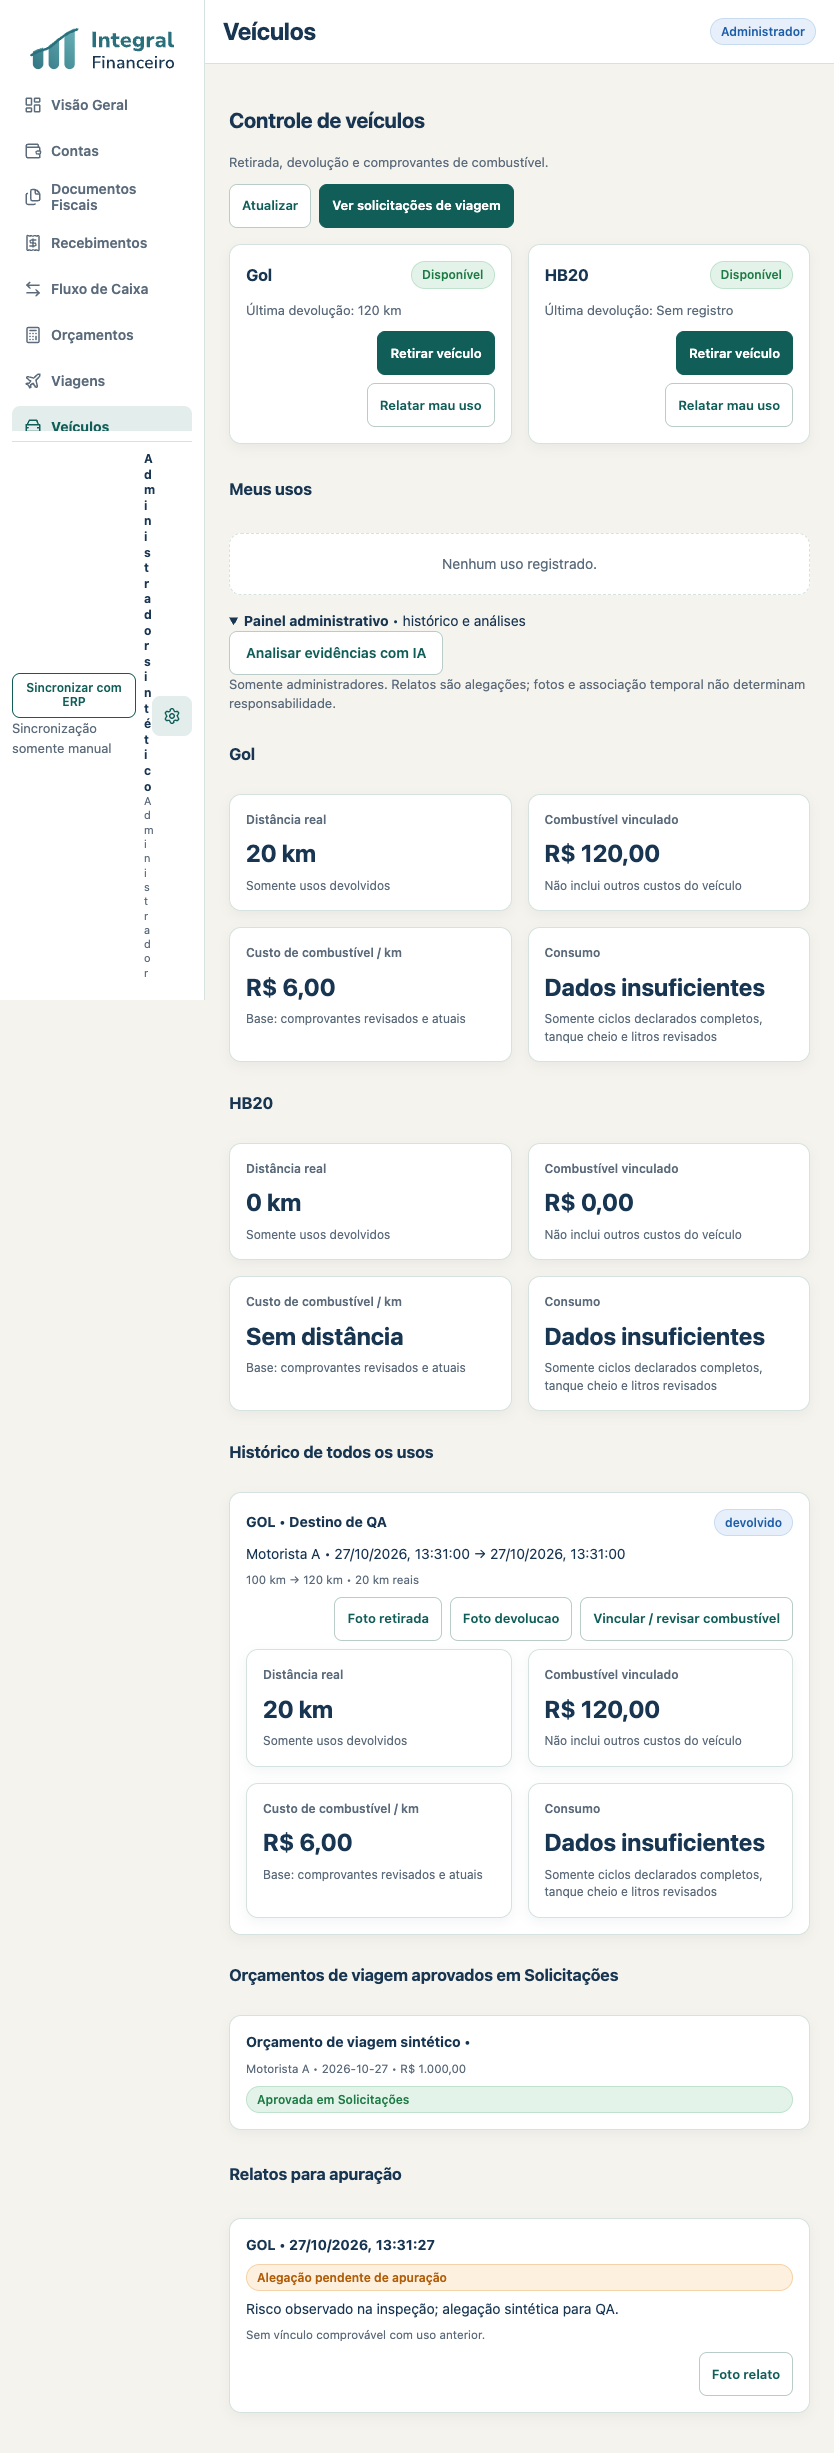
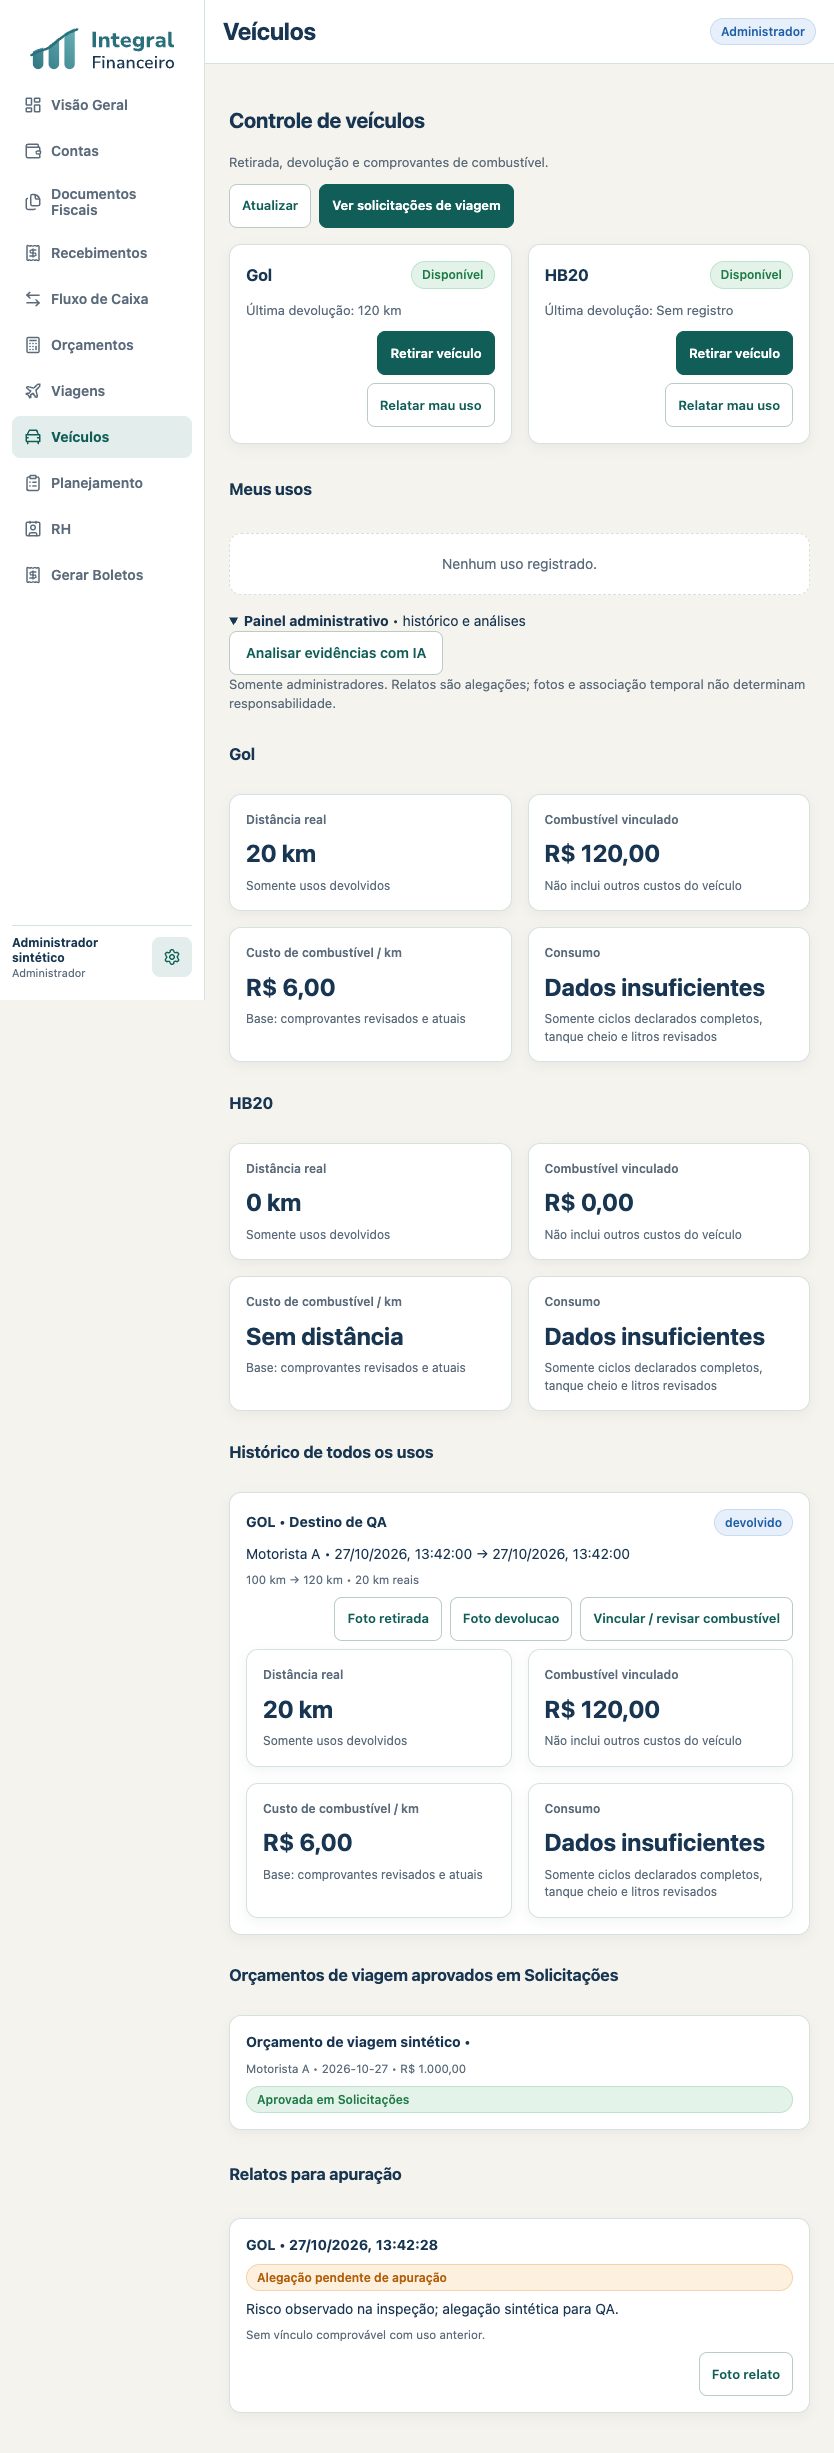
fix: preserva fronteira legada e valida concorrência em PostgreSQL real

diff --git a/public/financeiro-veiculos.js b/public/financeiro-veiculos.js
@@ -84,5 +84,8 @@ function bind(target){
 window.addEventListener('click',e=>{if(!e.target.closest?.('.nav [data-view=vehicles]'))return;e.preventDefault();e.stopImmediatePropagation();render()},true);
 // O roteador central e os guardas de perfil conhecem a nova view; navegação preserva o shell.
 let scheduled=false;new MutationObserver(()=>{if(scheduled)return;scheduled=true;queueMicrotask(()=>{scheduled=false;if(!currentUser()){dismiss();state=null;version++;return}ensureNav();if(currentView()==='vehicles'&&!q('.vehicle-page')&&!loading&&q('#content')?.dataset.canonicalView!=='vehicles')render()})}).observe(document.getElementById('app')||document.body,{childList:true,subtree:true});
+// Monta o shell por uma rota legada permitida e restaura a rota nova em seguida.
+// Preserva byte a byte o bundle delimitado e não muda papéis ou acessos antigos.
+try{const legacyApp=typeof app==='function'?app:window.app;if(legacyApp&&!legacyApp.__vehicleShell){const wrapped=function(){const vehicles=currentView()==='vehicles';if(vehicles){try{view='trips'}catch{}window.view='trips'}const out=legacyApp.apply(this,arguments);if(vehicles)render();return out};wrapped.__vehicleShell=true;try{app=wrapped}catch{}window.app=wrapped}}catch{}
 window.IntegralVehicles={render,ensureNav};ensureNav();
 })();

diff --git a/public/financeiro.bundle.js b/public/financeiro.bundle.js
@@ -422,12 +422,12 @@ window.IntegralV6={real,dup};
     if(!user||isAdm()||isFinanceSector())return;
     const nav=document.querySelector('.nav');
     if(!nav)return;
-    nav.querySelectorAll('button[data-view]').forEach(btn=>{btn.style.display=['budgets','trips','invoices','vehicles'].includes(btn.dataset.view)?'':'none'});
+    nav.querySelectorAll('button[data-view]').forEach(btn=>{btn.style.display=['budgets','trips','invoices'].includes(btn.dataset.view)?'':'none'});
   }
 
   const baseApp=app;
   app=function(){
-    if(user&&!isAdm()&&!isFinanceSector()&&!['budgets','trips','invoices','vehicles'].includes(view))view='budgets';
+    if(user&&!isAdm()&&!isFinanceSector()&&!['budgets','trips','invoices'].includes(view))view='budgets';
     normalizeAssignments();
     baseApp();
     if(window.IntegralERP?.loaded)syncSectorsFromERP();

diff --git a/public/patch-v8.js b/public/patch-v8.js
@@ -57,12 +57,12 @@
     if(!user||isAdm()||isFinanceSector())return;
     const nav=document.querySelector('.nav');
     if(!nav)return;
-    nav.querySelectorAll('button[data-view]').forEach(btn=>{btn.style.display=['budgets','trips','invoices','vehicles'].includes(btn.dataset.view)?'':'none'});
+    nav.querySelectorAll('button[data-view]').forEach(btn=>{btn.style.display=['budgets','trips','invoices'].includes(btn.dataset.view)?'':'none'});
   }
 
   const baseApp=app;
   app=function(){
-    if(user&&!isAdm()&&!isFinanceSector()&&!['budgets','trips','invoices','vehicles'].includes(view))view='budgets';
+    if(user&&!isAdm()&&!isFinanceSector()&&!['budgets','trips','invoices'].includes(view))view='budgets';
     normalizeAssignments();
     baseApp();
     if(window.IntegralERP?.loaded)syncSectorsFromERP();

diff --git a/public/financeiro-veiculos.css b/public/financeiro-veiculos.css
@@ -7,3 +7,5 @@
 .vehicle-page .actions,.vehicle-dialog .actions{min-width:0;max-width:100%}.vehicle-page .actions .btn,.vehicle-dialog .actions .btn,.vehicle-dialog [data-read]{min-height:44px}
 
 .vehicle-dialog small{display:block;margin-top:8px;color:var(--ds-muted)}
+
+.nav [data-view="vehicles"]{display:flex!important}

diff --git a/docs/veiculos-validacao-publicacao.md b/docs/veiculos-validacao-publicacao.md
@@ -1,0 +1,52 @@
+# Validação e plano de publicação — Veículos
+
+Em 27/10/2026 foi recebida autorização explícita para PR, merge, publicação do módulo e aplicação da sua migração aditiva. Isso não autoriza migrações pendentes de outros módulos nem alterações em dados/permissões antigas.
+
+## Alvos verificados antes da publicação
+
+- GitHub: `engjonathanabreu-code/financeiro_integral`, repositório ID `1342222994`, branch de produção `main`.
+- Base remota conferida: `5d287a7560343f2f701dd3160374a00f44959f0e`.
+- Vercel: `financeiro-integral`, projeto `prj_Yg4ROMWPcptaSMew0sHZh60wCe5Y`, equipe `team_1IhPk56Z4cXnOWUIbwwW29Ep`.
+- Produção atual: `https://financeiro-integral.vercel.app`, deploy anterior `dpl_Aouv3LKZtVkvTc6YiSBpXtjLiZwv`, READY, ligado à base `5d287a7`.
+- Supabase: **ERP INTEGRAL Interno**, projeto `ycdsyilyvaxslkwbkxyo`, PostgreSQL 17.6. A configuração do frontend e das APIs aponta para esse projeto. Não é Financeiro MCL. O banco é compartilhado com outros módulos; apenas recursos novos de veículos podem ser criados.
+- Conferidos no schema real: campos necessários de `profiles`, `financeiro_estado_modulos`, `financeiro_arquivos` e `storage.objects`; funções `is_admin`/`is_active_user`; guard ativo e RPC existentes de Solicitações. Recursos `financeiro_veiculos*` ainda não existiam no preflight.
+
+## Validação adicional real
+
+Foi localizado e reutilizado PostgreSQL **17.6** já instalado. Cluster descartável com autenticação local sem senha, exclusivamente em socket Unix privado de permissão 0700; `listen_addresses=''`. Nenhuma porta TCP, serviço remoto, conta ou credencial criada.
+
+`scripts/test-veiculos-postgres.cjs` executou **9 cenários reais**. **4 bloqueios entre backends independentes** foram comprovados por `pg_stat_activity` e `pg_blocking_pids`: retiradas concorrentes, reenvio com mesmo UUID, devoluções concorrentes e disputa da retirada com decisão ADM em Solicitações. A segunda retirada esperou a transação e foi recusada; reenvio/devolução conservaram registros/fotos únicos.
+
+A migração foi executada nesse PostgreSQL. Comparações antes/depois confirmaram preservação das tabelas, dados JSON, funções/grants antigos e políticas de Storage do fixture. RLS, chamadas como anônimo/inativo/colaborador/Financeiro/ADM, escrita direta, arquivos e relatos privados foram testados com a role `authenticated` real. O fluxo foi Pendente → decisão ADM pela RPC existente → conversão consistente → retirada; colaborador não conseguiu aprovar.
+
+Evidências: [postgres-real.json](qa-veiculos/postgres-real.json). Os perfis/auth.uid e tabelas de suporte são fixtures sintéticos; esse teste não equivale a login JWT via Supabase Auth. Sem Docker/daemon ou Supabase Storage local disponível. A CLI Supabase localizada falhou ao tentar gravar telemetria fora da área permitida e não foi usada para instalar ou subir serviços. `storage.objects` no teste é fixture, não serviço HTTP; uploads/downloads HTTP reais de Storage continuam não executados. Fotos novas ficam em tabela privada via RPC, não em bucket novo.
+
+## Integração da base remota e regressões
+
+O rebase incorporou os PRs anteriores de parcelas, inadimplência, fronteira do legado e protocolo de engenharia. O conflito de `index.html` foi resolvido preservando os scripts anteriores e adicionando os do módulo novo.
+
+O bundle e `patch-v8.js` permanecem **idênticos à base remota**. A navegação nova usa uma ponte no próprio módulo; não há reativação do código de RH arquivado nem edição do checksum histórico.
+
+- 48 verificações de navegador passaram novamente na base remota, com rede interceptada, dados sintéticos e viewports 1440/834/390.
+- Sintaxe: 100 arquivos JS e 84 assets locais conferidos; os três arquivos `.mjs` da base também passaram em `node --check`.
+- Suíte após atualização: 99 testes, **98 passaram e 1 falhou**. Falha preexistente: `legacy-boundary.test.cjs` espera checksum `2c8a56…`, mas reconstruir os blobs da `origin/main` limpa também produz `b880f1…`. A igualdade dos arquivos ativo/arquivado com a base foi comprovada. O checksum não foi alterado para mascarar a falha. Os 13 testes novos passaram.
+- Não há workflow GitHub Actions no checkout atual. Os checks remotos e o deploy Vercel serão verificados no SHA exato do PR.
+- Sem configuração ESLint/TypeScript/build de bundler. Não se declara que esses checks passaram.
+
+## Operação planejada
+
+1. Revisar diff final, guardar evidências, confirmar a base remota e publicar somente a branch do módulo. Abrir PR; conferir SHA e checks do preview.
+2. Capturar hashes/contagens agregadas dos módulos antigos, ACL/políticas e funções de autorização. Não exportar fotos, conteúdo financeiro ou dados pessoais.
+3. Aplicar **somente** `supabase/financeiro_veiculos.sql`, pelo `apply_migration` do projeto `ycdsyilyvaxslkwbkxyo`, nome `financeiro_veiculos_20261027`. Nunca `db push`; não aplicar arquivos pendentes ou o rollback.
+4. Conferir versão registrada, cinco tabelas/RLS/grants/RPC novos, apenas os carros Gol/HB20 como seeds, zero usos/relatos de teste; comparar hashes antigos e advisors. Sem criar viagem ou denúncia fictícia em produção.
+5. Fazer merge apenas do SHA validado, aguardar READY e confirmar deploy/alias/commit esperado. QA HTTP somente leitura: assets e proteção de APIs; não fabricar dados reais nem enviar fotos ao provedor.
+
+Riscos conhecidos: dependência da proteção existente de Solicitações (verificada e exigida pela RPC); solicitações antigas sem data/valor/conversão ficam bloqueadas; ausência de teste HTTP autenticado com sessão real; tamanho/crescimento da tabela privada de fotos deve ser acompanhado. A migração não reescreve módulos antigos nem amplia suas políticas.
+
+## Rollback não destrutivo
+
+Se a validação pós-migração falhar, não liberar o frontend novo. Manter as tabelas novas e evidências. `supabase/financeiro_veiculos_rollback_nao_destrutivo.sql` revoga execução somente das duas funções novas que expõem operações; não apaga nada.
+
+Se houver falha após deploy, restaurar o alias para `dpl_Aouv3LKZtVkvTc6YiSBpXtjLiZwv` e, se necessário, bloquear as RPCs novas pelo rollback acima. Não reverter dados de Solicitações, viagens, combustível, perfis ou outros sistemas. Reativação exige revisão do problema e concessão explícita de execução somente das funções novas.
+
+O resultado efetivo de PR/deploy/migração será registrado após confirmação das ferramentas. Este documento descreve o preflight e o plano; não é prova de publicação concluída.

diff --git a/docs/veiculos-implementacao-local.md b/docs/veiculos-implementacao-local.md
@@ -40,7 +40,7 @@ O SQL verifica a presença do guard de aprovação existente antes de criar recu
 - Painel administrativo, histórico geral e análise IA só para ADM. O perfil Financeiro continua sem poderes de ADM.
 - Cores/tipografia/tokens do `financeiro-design-system.css`, componentes existentes, foco e diálogo nativo, alvos de toque de 44 px e layout sem overflow em 390/834/1440 px.
 
-A revisão da base remota encontrou a correção existente da fronteira do bundle legado (PR #10). Essa correção deve ser preservada ao integrar o módulo. Fontes e bundle recebem somente a inclusão de Veículos nas guardas de navegação; não se reativa o RH legado.
+A revisão da base remota encontrou a correção existente da fronteira do bundle legado (PR #10). Essa correção deve ser preservada ao integrar o módulo. O bundle e seu arquivo-fonte de guarda permanecem byte a byte como na base remota. A navegação de Veículos usa uma ponte no próprio módulo e não reativa o RH legado.
 
 ## Validação e evidências
 
